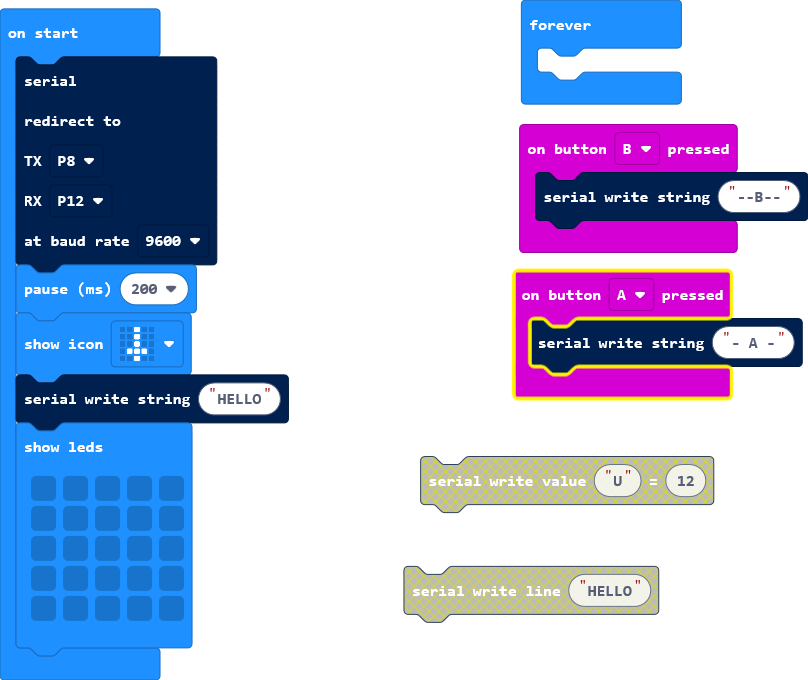
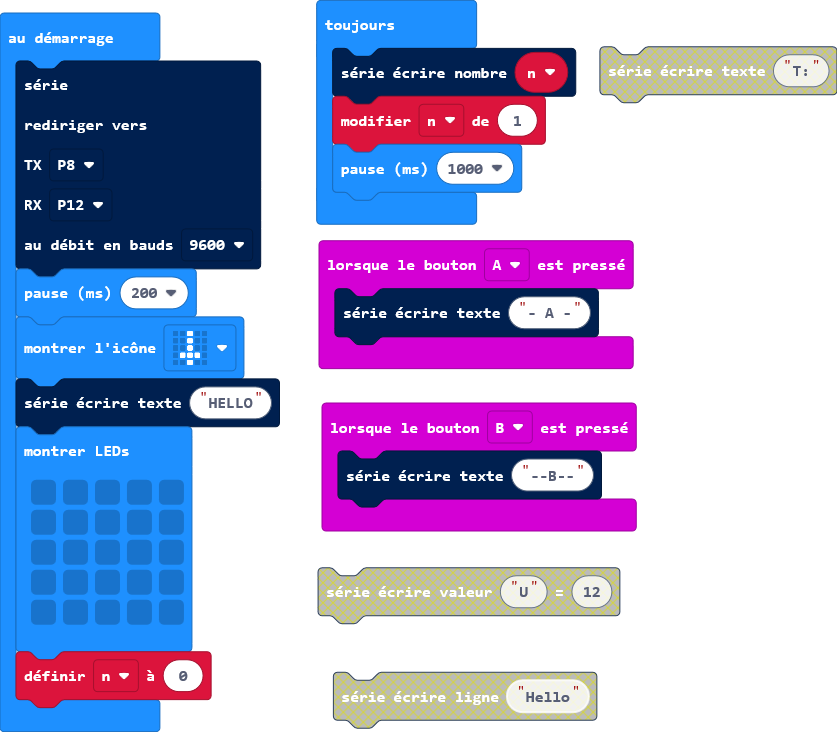
Mise à jour main.blocks, main.ts

diff --git a/main.ts b/main.ts
@@ -19,6 +19,9 @@ basic.showLeds(`
     . . . . .
     . . . . .
     `)
+let n = 0
 basic.forever(function () {
-	
+    serial.writeNumber(n)
+    n += 1
+    basic.pause(1000)
 })
